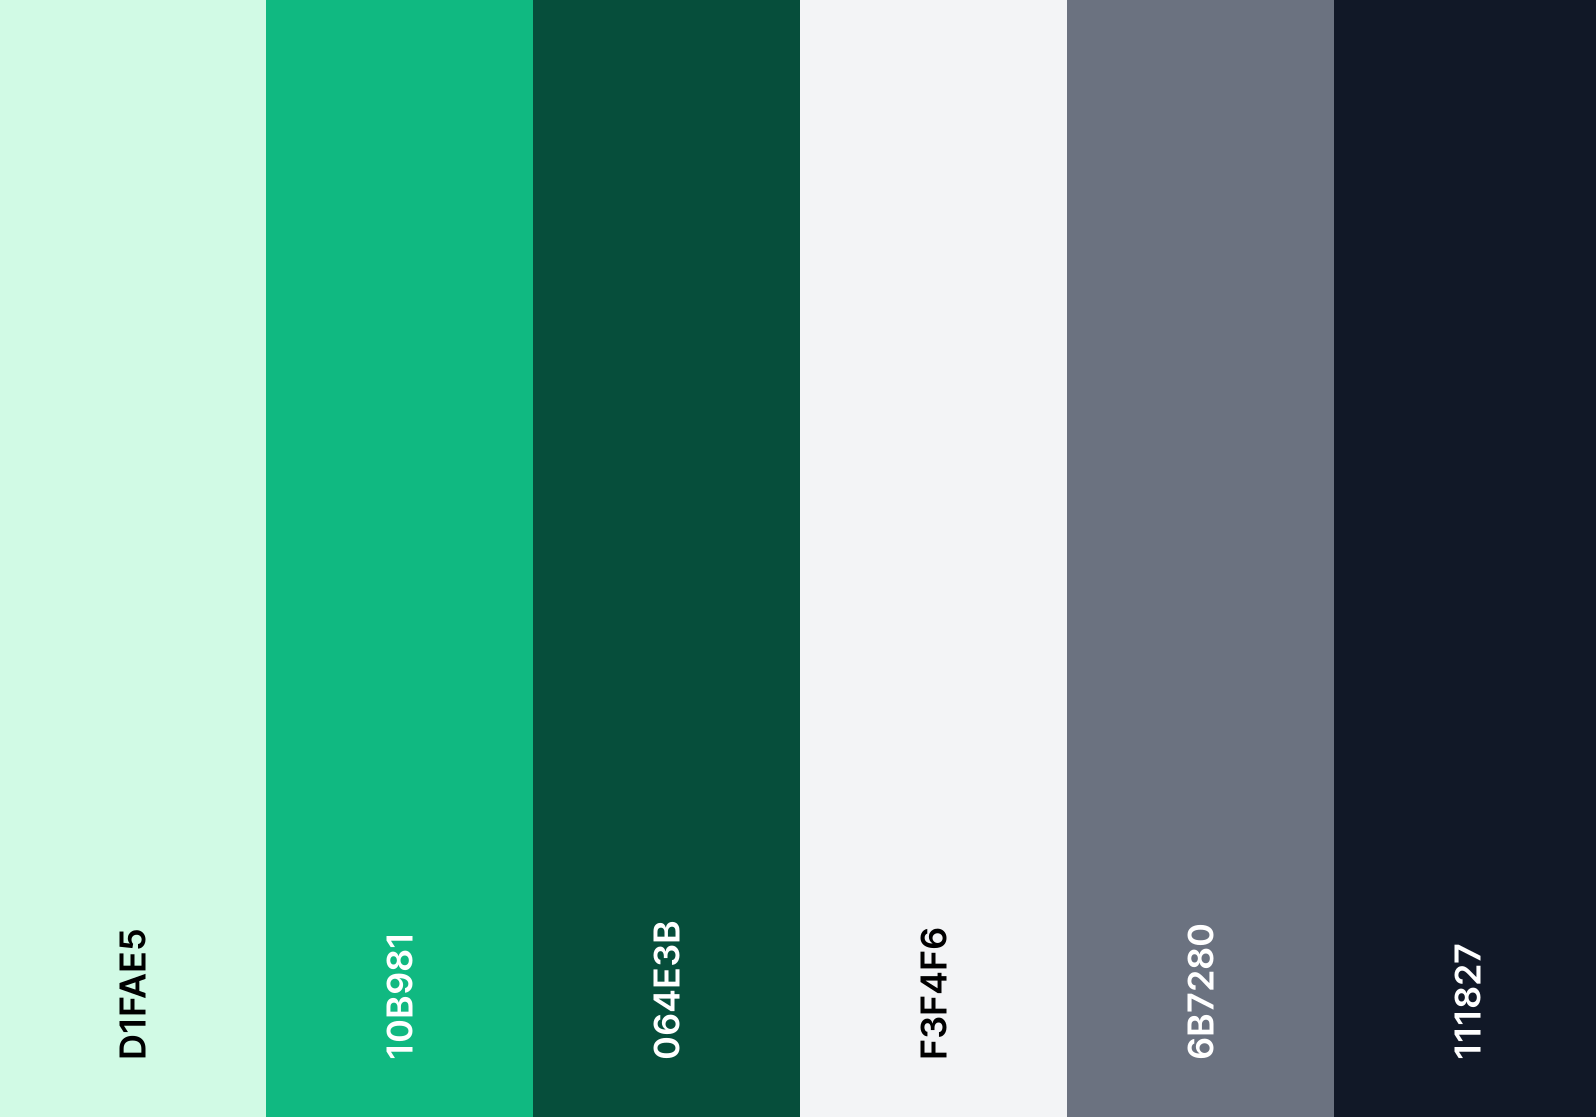
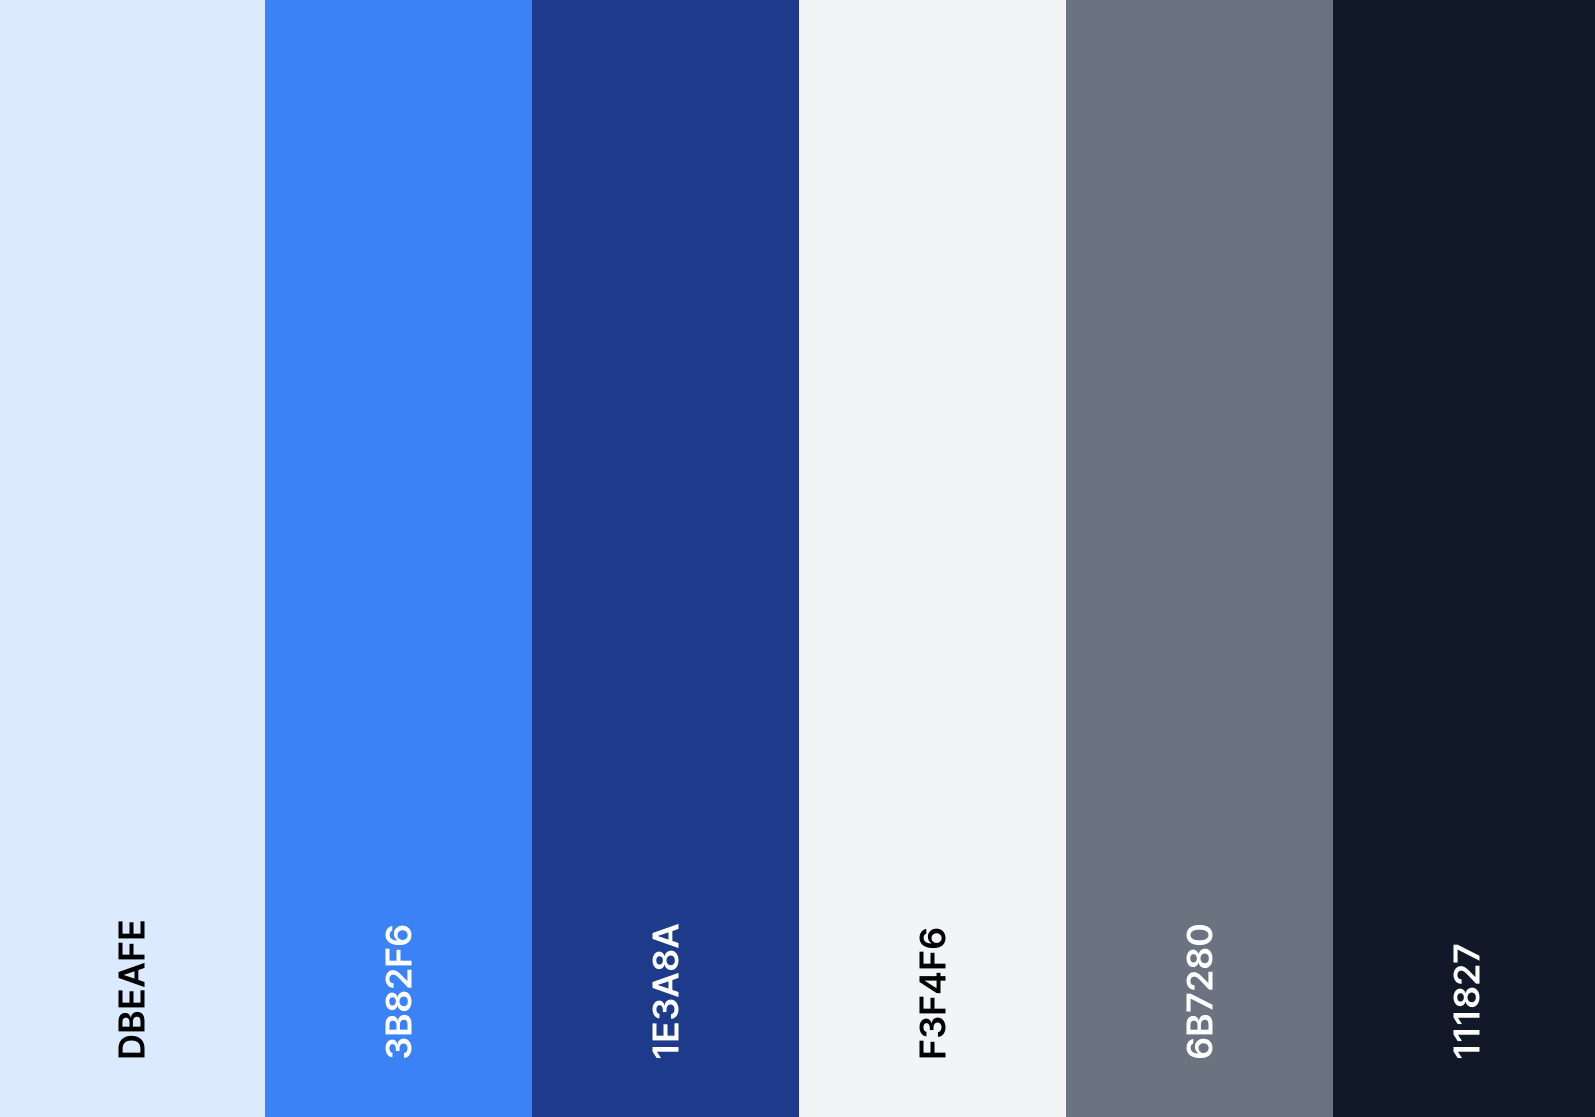
update: theme color

diff --git a/components/Navbar.tsx b/components/Navbar.tsx
@@ -22,7 +22,7 @@ const Navbar = async () => {
             alt="logo"
             className="h-10 w-10"
           />
-          <p className="text-emerald-900 text-2xl font-medium md:block">
+          <p className="text-blue-900 text-2xl font-bold md:block">
             Moments
           </p>
         </Link>
@@ -30,13 +30,13 @@ const Navbar = async () => {
         <div className="flex gap-4 md:gap-6 items-center">
           <div className="gap-6 hidden md:flex text-gray-600 font-medium text-lg">
             <Link
-              className="hover:text-emerald-950 transition-colors"
+              className="hover:text-blue-950 transition-colors"
               href={'/'}
             >
               Home
             </Link>
             <Link
-              className="hover:text-emerald-950 transition-colors"
+              className="hover:text-blue-950 transition-colors"
               href={'/explore'}
             >
               Explore
@@ -44,14 +44,14 @@ const Navbar = async () => {
             {
               session?.user ? (
                 <Link
-                  className="hover:text-emerald-950 transition-colors"
+                  className="hover:text-blue-950 transition-colors"
                   href={'/settings'}
                 >
                   Settings
                 </Link>
               ) : (
                 <Link
-                  className="hover:text-emerald-950 transition-colors"
+                  className="hover:text-blue-950 transition-colors"
                   href={'/sign-in'}
                 >
                   Sign in

diff --git a/components/MiniCreatePost.tsx b/components/MiniCreatePost.tsx
@@ -27,7 +27,7 @@ const MiniCreatePost: FC<MiniCreatePostProps> = ({ session }) => {
             }}
           />
           {
-            session?.user && <span className="absolute bottom-0 right-0 rounded-full w-3 h-3 bg-emerald-500 outline outline-2 outline-white" />
+            session?.user && <span className="absolute bottom-0 right-0 rounded-full w-3 h-3 bg-blue-500 outline outline-2 outline-white" />
           }
         </div>
         <Input
@@ -42,14 +42,14 @@ const MiniCreatePost: FC<MiniCreatePostProps> = ({ session }) => {
             variant='ghost'
             size="icon"
           >
-            <Camera className="h-5 w-5 text-gray-600 hover:text-emerald-700"/>
+            <Camera className="h-5 w-5 text-gray-600 hover:text-blue-700"/>
           </Button>
           <Button
             onClick={() => router.push(`${pathname}/submit`)}
             variant='ghost'
             size="icon"
           >
-            <Link className="h-5 w-5 text-gray-600 hover:text-emerald-700"/>
+            <Link className="h-5 w-5 text-gray-600 hover:text-blue-700"/>
           </Button>
         </div>
 

diff --git a/components/SearchBox.tsx b/components/SearchBox.tsx
@@ -45,7 +45,7 @@ const SearchBox: FC = () => {
   return (
     <>
       <Search
-        className="h-8 w-8 p-1 rounded-md hover:bg-gray-200 transition-colors text-emerald-900 cursor-pointer"
+        className="h-8 w-8 p-1 rounded-md hover:bg-gray-200 transition-colors text-blue-900 cursor-pointer"
         onClick={() => setOpen(true)}
       />
       <CommandDialog
@@ -70,7 +70,7 @@ const SearchBox: FC = () => {
                     router.refresh();
                   }}
                 >
-                  <HeartHandshake className="mr-2 h-5 w-5 text-emerald-700" />
+                  <HeartHandshake className="mr-2 h-5 w-5 text-blue-700" />
                   <Link
                     href={`/c/${community.name}`}
                     onClick={() => setOpen(false)}

diff --git a/app/page.tsx b/app/page.tsx
@@ -22,8 +22,8 @@ const Home = () => {
         {/* info */}
         <div className="flex flex-col space-y-6 order-last">
           <div className="hidden md:block overflow-hidden h-fit rounded-lg border shadow border-gray-200">
-            <div className="bg-emerald-100 px-6 py-4">
-              <p className="font-semibold py-3 flex items-center gap-1.5 text-emerald-900">
+            <div className="bg-blue-100 px-6 py-4">
+              <p className="font-semibold py-3 flex items-center gap-1.5 text-blue-900">
                 <HeartHandshake className="w-5 h-5"/>
                 Start your own community
               </p>

diff --git a/components/ui/Button.tsx b/components/ui/Button.tsx
@@ -10,11 +10,11 @@ const buttonVariants = cva(
     variants: {
       variant: {
         default:
-          'bg-emerald-600 text-white hover:bg-emerald-700',
+          'bg-blue-600 text-white hover:bg-blue-700',
         destructive:
           'bg-rose-500 text-white hover:bg-rose-600 dark:hover:bg-rose-600',
         outline:
-          'bg-gray-100 text-gray-900 hover:bg-gray-200 outline outline-1 outline-emerald-500',
+          'bg-gray-100 text-gray-900 hover:bg-gray-200 outline outline-1 outline-blue-500',
         subtle:
           'bg-gray-100 hover:bg-gray-200 text-gray-900',
         ghost:

diff --git a/components/SignIn.tsx b/components/SignIn.tsx
@@ -44,7 +44,7 @@ const SignIn: FC = () => {
           {' '}
           <span
             onClick={() => toggleVariant()}
-            className="hover:text-emerald-950 text-sm underline underline-offset-4 cursor-pointer transition-colors"
+            className="hover:text-blue-950 text-sm underline underline-offset-4 cursor-pointer transition-colors"
           >
             { variant === 'signin' ? 'Sign up' : 'Sign in' }
           </span>

diff --git a/components/loading/InfiniteScrollLoader.tsx b/components/loading/InfiniteScrollLoader.tsx
@@ -3,7 +3,7 @@ import {Loader2} from "lucide-react";
 const InfiniteScrollLoader = () => {
   return (
     <div className="flex col-span-2 gap-2 items-center justify-center transition-all">
-      <Loader2 className="animate-spin h-7 w-7 text-emerald-500" />
+      <Loader2 className="animate-spin h-7 w-7 text-blue-500" />
       <p className="text-gray-500 text-sm">Loading more posts ...</p>
     </div>
   );

diff --git a/components/loading/CommunitiesLoader.tsx b/components/loading/CommunitiesLoader.tsx
@@ -3,7 +3,7 @@ import {Loader2} from "lucide-react";
 const CommunitiesLoader = () => {
   return (
     <div className="flex col-span-2 gap-2 items-center justify-center transition-all">
-      <Loader2 className="animate-spin h-7 w-7 text-emerald-500" />
+      <Loader2 className="animate-spin h-7 w-7 text-blue-500" />
       <p className="text-gray-500 text-sm">Loading communities ...</p>
     </div>
   );

diff --git a/components/UserAccountNav.tsx b/components/UserAccountNav.tsx
@@ -55,7 +55,7 @@ const UserAccountNav: FC<UserAccountNavProps> = ({ user }) => {
               }}
             />
           ) : (
-            <Menu className="h-9 w-9 p-1 rounded-md hover:bg-gray-200 transition-colors text-emerald-900" />
+            <Menu className="h-9 w-9 p-1 rounded-md hover:bg-gray-200 transition-colors text-blue-900" />
           )
         }
       </DropdownMenuTrigger>

diff --git a/components/loading/CommentLoader.tsx b/components/loading/CommentLoader.tsx
@@ -3,7 +3,7 @@ import {Loader2} from "lucide-react";
 const CommentLoader = () => {
   return (
     <div className="flex gap-2 items-center justify-center transition-all">
-      <Loader2 className="animate-spin h-7 w-7 text-emerald-500" />
+      <Loader2 className="animate-spin h-7 w-7 text-blue-500" />
       <p className="text-gray-500 text-sm">Loading comments...</p>
     </div>
   );

diff --git a/components/CommentVoteClient.tsx b/components/CommentVoteClient.tsx
@@ -79,7 +79,7 @@ const CommentVoteClient: FC<CommentVoteClientProps> = ({ commentId, initialVoteC
         <ThumbsUp
           className={cn(
             "h-4 w-4",
-            {'text-emerald-500 fill-emerald-500': currentVote === 'UP'}
+            {'text-blue-500 fill-blue-500': currentVote === 'UP'}
           )}
         />
       </Button>

diff --git a/components/post-vote/PostVoteClient.tsx b/components/post-vote/PostVoteClient.tsx
@@ -85,7 +85,7 @@ const PostVoteClient: FC<PostVoteClientProps> = ({ postId, initialVoteCount, ini
         <ThumbsUp
           className={cn(
             "h-4 w-4",
-            {'text-emerald-500 fill-emerald-500': currentVote === 'UP'}
+            {'text-blue-500 fill-blue-500': currentVote === 'UP'}
           )}
         />
       </Button>
